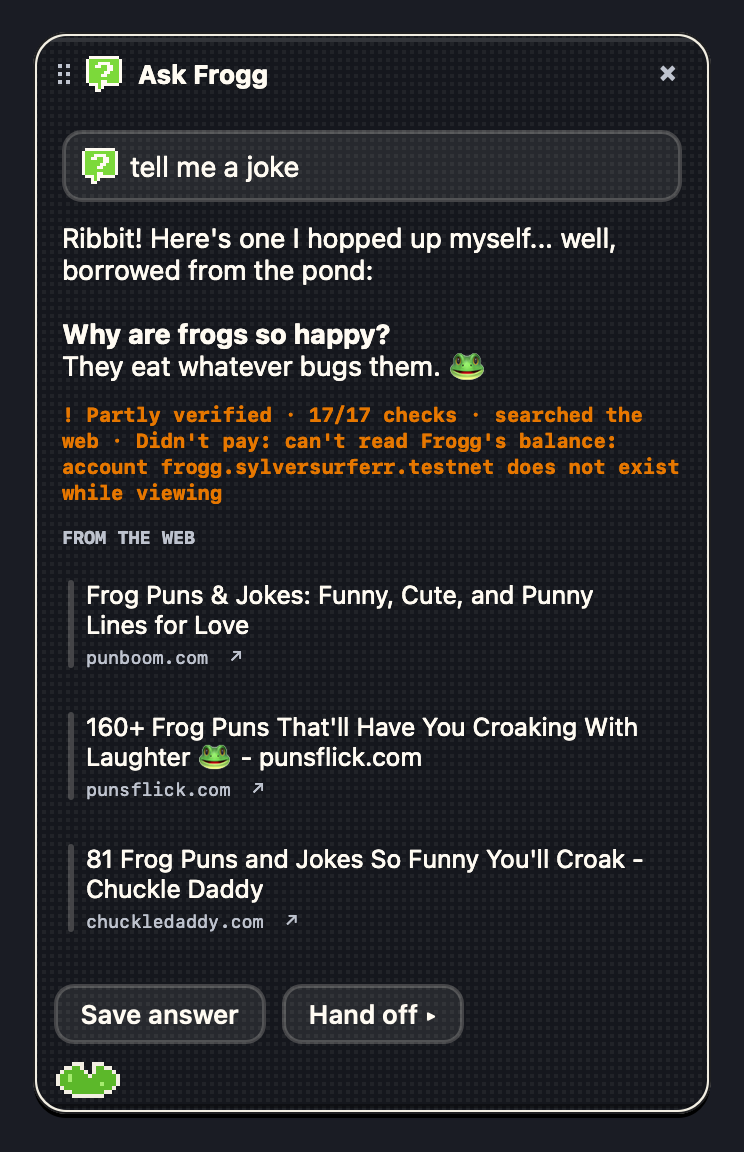
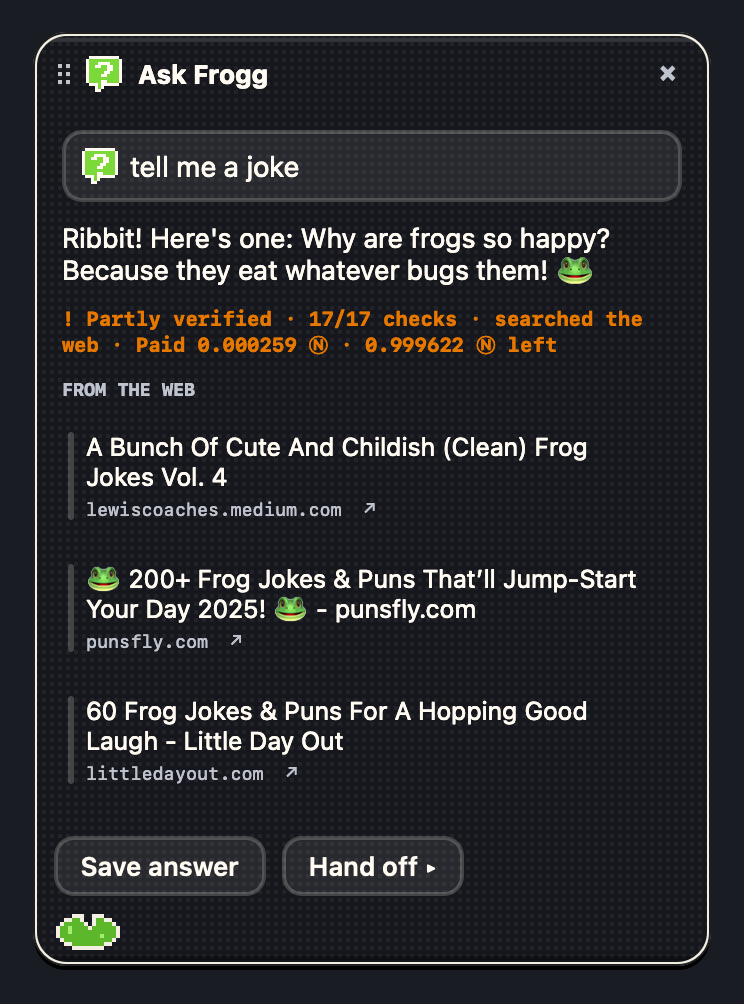
Frogg's wallet is live on testnet: the first paid answers, setup through the NEAR CLI (Meteor blocks full-access keys), a paid web-search card
Claude-Session: https://claude.ai/code/session_01FbPmycRw98T8vrGcqPeiEQ

Changed region(s): [[0.0309, 0.0309, 0.9583, 0.988]]

diff --git a/README.md b/README.md
@@ -108,13 +108,13 @@ Full details: [`memory/README.md`](memory/README.md).
                 ▼
         NEAR AI Cloud  ── gateway TEE ── model TEE (z-ai/glm-5.3-flash)
                 │
-        Frogg's wallet  frogg.pixlz-petz.testnet  ── transfer(cost) ─▶ payee (allowlisted)
+        Frogg's wallet  frogg.pixlz-petz-faucet.testnet  ── transfer(cost) ─▶ payee pixlz-petz.testnet (allowlisted)
 ```
 
 | Part | Status |
 |---|---|
 | `memory/`: local service, verification, encrypted store, web search, CLI | **working**, 100 tests |
-| Frogg's wallet: `frogg.pixlz-petz.testnet`, funded by `pixlz-petz.testnet`, pays per request | built and tested against a simulated chain (20 tests); waiting for the owner to create the account in Meteor |
+| Frogg's wallet: `frogg.pixlz-petz-faucet.testnet`, funded by its owner account, pays `pixlz-petz.testnet` per request | **live on testnet**: every answer pays its cost on chain ([first payment](https://testnet.nearblocks.io/txns/GzuymmDA5kERz74Rj28GAs8KaSUqAiM8DtgvkBui9fzm)); 20 wallet tests against a simulated chain |
 | `macos/PixlMemory/`: overlay app. Frogg perches on the active window, hops when you switch windows, and startles then hops to the new perch when you swipe to another Space (an edge pop when an arc between two displays would leave the screen). Behavior: Calm, Roam or Chaos (each Pixl explores in its own style with real walk/trot/crawl loops: Kiti walks, Mochi trots, Slugg never hops: he does a two-step crawl (front first, the back catching up), climbs the screen's real edges and window sides, laps over the top upside down (now and then his shell lets go first and he tumbles onto it), wraps head first around corners and over window tops, and leaves a green slime trail that fades in 2 s; his shell lags and settles, opens like a vault for Memory and seals for Focus, Silky climbs walls and hangs on silk, Boo hovers and glides; never while you type, never over your caret; if it's sitting where you're about to type, it moves away). Ask does things: opens apps and sites, saves the page or the part about a topic with a backlink, finds what you saved, searches the web, shows pictures. Play: two mini-games (C16). Sleeps when you're away (Frogg in his pond), wakes by the rules in SPEC §6.2. Text in three channels: sounds in bubbles, status narration, plain-English notices. Click to poke; double-click, right-click or press-and-hold for the option bubbles (Polish when text is selected → diff → drag the result into your text; otherwise Ask; Memory; Wallet; More); drag to grab and toss; menu bar item; ⌃⌥P / ⌃⌥Space / ⌃⌥H; Focus timer; hides in fullscreen | built; 173 unit/UI tests (+11 UI, +137 in PixlzCore) plus an in-app click self-test (`scripts/build-mac-app.sh --selftest`); installs to `~/Applications`, `--debug` logs every click |
 | `extension/`: Chrome highlight → save → text-fragment backlink; bridge to the Mac app (native messaging): highlights recalled in Ask with backlinks, Polish → Replace inside web pages and rich editors | built, 15 tests + 11 bridge protocol tests (one runs the real host binary); run in Chrome (see the backlink screenshots above) |
 
@@ -140,7 +140,7 @@ Each step reuses the one before it: the iPhone app gives travel a second endpoin
 **Choice: a plain NEAR sub-account that the owner funds: `frogg.pixlz-petz.testnet`, under the owner's testnet account `pixlz-petz.testnet`.** We considered a NEAR Intents agent account (the Agent API) and rejected it for this app.
 
 **How it works:**
-- **The owner creates `frogg.pixlz-petz.testnet` from their own wallet (Meteor) and sends it a small amount.** The owner approves every transaction from their account in Meteor; the app never asks for a recovery phrase or private key. Your keys are never on the Mac, and NEAR gives a parent account no control over a sub-account after creation. Pixl Memory has no path to your main account.
+- **The owner creates `frogg.<owner>.testnet` from their own wallet and sends it a small amount** (live: `frogg.pixlz-petz-faucet.testnet`, made with the NEAR CLI because Meteor blocks full-access keys). The owner approves every transaction from their own wallet; the app never asks for a recovery phrase or private key. Your keys are never on the Mac, and NEAR gives a parent account no control over a sub-account after creation. Pixl Memory has no path to your main account.
 - **The app holds only Frogg's own key, for Frogg's account.** The most a stolen key can spend is the balance you chose to give Frogg. That balance is the hard cap, enforced by NEAR itself.
 - **Frogg pays per request with a plain NEAR transfer.** The recipient is the account that holds the NEAR AI credits (you, or whoever runs the service). There is no documented way to buy NEAR AI credits on-chain; they're bought in its dashboard. The amount is the request's real cost from `/v1/billing/costs`, converted at a rate you set. The app refuses to pay any other recipient.
 - **Your balance and receipts appear in Frogg's thought bubble.** On chain is only the amount and transaction. The receipt itself (model, cost, verification verdict) stays in the local encrypted store.
@@ -167,10 +167,13 @@ Both keep your main funds untouchable. The sub-account does it with far less cod
 - **What's on chain is a plain NEAR transfer:** sender, receiver, amount and time. No text, model or verdict is attached. The full receipt is stored only in the local encrypted database.
 
 **Owner setup** (testnet only; the owner never shares a recovery phrase or key):
-1. Fund `pixlz-petz.testnet` with testnet NEAR from the faucet: https://docs.near.org/getting-started/faucet
-2. `cd memory && uv run pixl-memory wallet init`. This creates Frogg's key and prints its public half.
-3. With `make -C memory serve` running, open http://127.0.0.1:7341/wallet/setup, click **Connect Meteor**, then **Create Frogg**. Meteor shows one transaction from `pixlz-petz.testnet` to `frogg.pixlz-petz.testnet` with three actions: Create account, Transfer (1 NEAR), Add key (Frogg's public key). Approve it.
-4. `uv run pixl-memory wallet status` should end with READY.
+1. `cd memory && uv run pixl-memory wallet init`. This creates Frogg's key and prints its public half.
+2. Create Frogg's account under yours, with that public key and a small amount. From the NEAR CLI (the owner's key stays in your keychain):
+   `near create-account frogg.<you>.testnet --use-account <you>.testnet --public-key <Frogg's public key> --initial-balance 1 --network-id testnet`
+   (No testnet NEAR? `near create-account <you>.testnet --use-faucet --network-id testnet` makes a funded account.)
+3. Set `FROGG_PARENT_ACCOUNT`, `FROGG_ACCOUNT` and `FROGG_PAYEE` in `.env`; `uv run pixl-memory wallet status` should end with READY.
+
+The `/wallet/setup` page does the same step from a browser wallet, but Meteor refuses any transaction that adds a full-access key, and Frogg needs one on its own account to pay. Our live setup used the CLI: the owner `pixlz-petz-faucet.testnet` (a faucet-funded account) created `frogg.pixlz-petz-faucet.testnet`; payments go to `pixlz-petz.testnet`, the owner's Meteor account.
 
 Testnet only: the config refuses mainnet RPCs and anything but `frogg.<owner>.testnet`.
 
